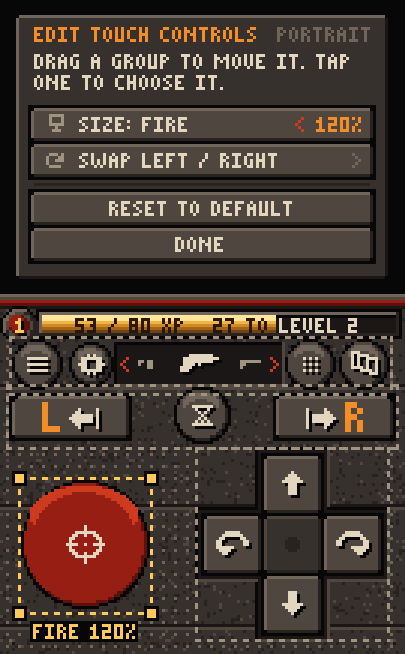
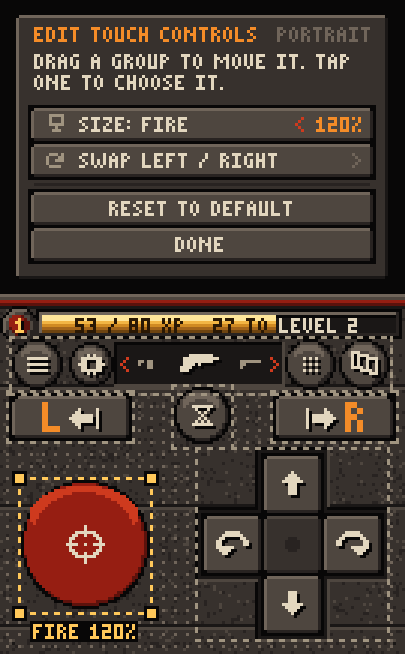
Stout Marine 2.3
Edit touch controls, portrait: L, the wait button and R are separate groups
that move on their own and can be 80 to 120 % of their size (smaller ones
leave room for a bigger cross). Swap left / right keeps L left and R right.
Layouts saved by 2.2 are carried over.

Windows (settings, extras, questions, stats, weapon picker, notes) are sized
to the screen so they can be read on small handheld screens; a window taller
than the screen scrolls (drag, or the d-pad cursor).

Claude-Session: https://claude.ai/code/session_01MybQg2o8bLLCBevEBFztR7

Changed region(s): [[0.0, 0.581, 0.4444, 0.7034], [0.563, 0.581, 1.0, 0.7034]]

diff --git a/src/android/modmarine/app/GameView.java b/src/android/modmarine/app/GameView.java
@@ -237,13 +237,13 @@ final class GameView extends View {
     /** Changes a group's size; a size with no room (or out of range) is not kept. Returns true if it changed. */
     private boolean resize(String id, int size, boolean tell) {
         boolean ok = false;
-        if (size >= Deck.SIZE_MIN && size <= Deck.SIZE_MAX) {
+        if (size >= Deck.SIZE_MIN && size <= Deck.sizeMax(id)) {
             int[] old = curEdits().get(id);
             int[] e = old != null ? old.clone() : new int[]{0, 0, 100};
             e[2] = size;
             ok = deck.placeNear(getWidth(), getHeight(), id, e, 8);
         }
-        if (!ok && tell) toast(size > Deck.SIZE_MAX ? "That's the biggest size." : size < Deck.SIZE_MIN ? "That's the smallest size." : "No room for that size here.");
+        if (!ok && tell) toast(size > Deck.sizeMax(id) ? "That's the biggest size." : size < Deck.SIZE_MIN ? "That's the smallest size." : "No room for that size here.");
         relayout(); saveEdits(); fillEditMenu();
         return ok;
     }
@@ -475,6 +475,7 @@ final class GameView extends View {
         if (deck.keypadOn) setKeypad(false);
         releaseTouches();
         menuController = controller;
+        menuFollow = true;
         if (m.cursor < 0) m.firstSelectable();
         menus.add(m);
         menuDirty = true; invalidate();
@@ -507,7 +508,7 @@ final class GameView extends View {
     /** The top window's rows changed (call after changing its items). */
     void menuChanged() { menuDirty = true; invalidate(); }
 
-    void menuMove(int d) { PixelMenu m = topMenu(); if (m == null) return; menuController = true; m.move(d); haptic(); menuChanged(); }
+    void menuMove(int d) { PixelMenu m = topMenu(); if (m == null) return; menuController = true; menuFollow = true; m.move(d); haptic(); menuChanged(); }
 
     /** A (or a tap): the row's action. */
     void menuActivate() {
@@ -543,43 +544,122 @@ final class GameView extends View {
         if (m.editor) {
             // the editor: over the game picture only, so the whole deck stays free to drag
             c.drawRect(gameRect, dimPaint); c.drawRect(gameRect, dimPaint);
-            s = Math.min(deck.artPx, Math.min(gameRect.width() * 0.98f / menuBmp.getWidth(), gameRect.height() * 0.96f / menuBmp.getHeight()));
-            if (s >= 2) s = (float) Math.floor(s);
+            s = fitScale(gameRect.width() * 0.98f / menuBmp.getWidth(), gameRect.height() * 0.96f / menuBmp.getHeight());
             w = menuBmp.getWidth() * s; h = menuBmp.getHeight() * s;
             x = gameRect.centerX() - w / 2; y = gameRect.centerY() - h / 2;
         } else {
             c.drawRect(0, 0, getWidth(), getHeight(), dimPaint);
-            s = Math.min(deck.artPx, Math.min(getWidth() * 0.96f / menuBmp.getWidth(), getHeight() * 0.96f / menuBmp.getHeight()));
-            if (s >= 2) s = (float) Math.floor(s);
-            w = menuBmp.getWidth() * s; h = menuBmp.getHeight() * s;
+            // sized to the screen: big enough to read on this screen (as wide as fits); a window taller than the
+            // screen shows part of its rows and scrolls (drag, or the controller cursor)
+            int bw = menuBmp.getWidth(), bh = menuBmp.getHeight();
+            s = fitScale(getWidth() * 0.96f / bw, readScale());
+            int avail = (int) (getHeight() * 0.96f / s);
+            menuBodyTop = m.bodyTop(); int end = m.bodyEnd(), foot = bh - end;
+            menuBodyVis = end - menuBodyTop; menuScrollMax = 0;
+            if (bh > avail) {
+                int vis = avail - menuBodyTop - foot;
+                if (vis >= 40) { menuBodyVis = vis; menuScrollMax = end - menuBodyTop - vis; }
+                else { s = fitScale(getWidth() * 0.96f / bw, getHeight() * 0.96f / bh); }   // no room to scroll: all of it, smaller
+            }
+            if (menuFollow && m.cursor >= 0 && m.cursor < m.items.size()) {   // keep the controller's row in view
+                int rt = m.rowTop(m.cursor) - menuBodyTop, rb = rt + m.rowH(m.items.get(m.cursor));
+                if (rt - 3 < m.scroll) m.scroll = rt - 3;
+                if (rb + 3 > m.scroll + menuBodyVis) m.scroll = rb + 3 - menuBodyVis;
+            }
+            m.scroll = Math.max(0, Math.min(menuScrollMax, m.scroll));
+            menuFullH = bh; menuVisH = bh - (end - menuBodyTop - menuBodyVis);
+            w = bw * s; h = menuVisH * s;
             float cy = deck.mode == Deck.MODE_TOUCH && getHeight() > getWidth() ? gameRect.centerY() : getHeight() / 2f;
             x = (getWidth() - w) / 2; y = Math.max(0, Math.min(getHeight() - h, cy - h / 2));
         }
         menuScale = s;
         menuDst.set(x, y, x + w, y + h);
-        c.drawBitmap(menuBmp, null, menuDst, pickerPaint);
+        if (m.editor || menuScrollMax <= 0 && menuVisH == menuFullH) {
+            if (m.editor) { menuScrollMax = 0; menuBodyTop = 0; menuBodyVis = menuBmp.getHeight(); menuFullH = menuVisH = menuBmp.getHeight(); m.scroll = 0; }
+            c.drawBitmap(menuBmp, null, menuDst, pickerPaint);
+        } else {
+            // three pieces: the title and message, the rows (scrolled), the hint at the bottom
+            int top = menuBodyTop, vis = menuBodyVis, foot = menuFullH - (top + vis + menuScrollMax);
+            tmpSrc.set(0, 0, menuBmp.getWidth(), top); tmpDst.set(x, y, x + w, y + top * s);
+            c.drawBitmap(menuBmp, tmpSrc, tmpDst, pickerPaint);
+            tmpSrc.set(0, top + m.scroll, menuBmp.getWidth(), top + m.scroll + vis); tmpDst.set(x, y + top * s, x + w, y + (top + vis) * s);
+            c.drawBitmap(menuBmp, tmpSrc, tmpDst, pickerPaint);
+            tmpSrc.set(0, menuFullH - foot, menuBmp.getWidth(), menuFullH); tmpDst.set(x, y + (top + vis) * s, x + w, y + h);
+            c.drawBitmap(menuBmp, tmpSrc, tmpDst, pickerPaint);
+            // scroll bar on the right edge
+            float bx = x + w - 3 * s, by0 = y + top * s, bh2 = vis * s;
+            float th = Math.max(6 * s, bh2 * vis / (float) (vis + menuScrollMax)), ty = by0 + (bh2 - th) * m.scroll / (float) menuScrollMax;
+            scrollPaint.setColor(0xFF282321); c.drawRect(bx, by0, bx + 2 * s, by0 + bh2, scrollPaint);
+            scrollPaint.setColor(0xFFF48C28); c.drawRect(bx, ty, bx + 2 * s, ty + th, scrollPaint);
+        }
         // pictures on RADIO rows (the Picture choice): a piece of the game as each choice shows it
         for (int i = 0; i < m.items.size(); i++) {
             PixelMenu.Item it = m.items.get(i);
             if (it.preview < 0 || it.preview >= previews.length || previews[it.preview] == null) continue;
             int[] r = m.previewRect(i);
-            tmpDst.set(x + r[0] * s, y + r[1] * s, x + (r[2] + 1) * s, y + (r[3] + 1) * s);
+            int dy = r[1] >= menuBodyTop ? -m.scroll : 0;
+            if (r[1] + dy < menuBodyTop || r[3] + dy >= menuBodyTop + menuBodyVis) continue;   // scrolled out of view
+            tmpDst.set(x + r[0] * s, y + (r[1] + dy) * s, x + (r[2] + 1) * s, y + (r[3] + 1 + dy) * s);
             pickerPaint.setFilterBitmap(it.preview != Prefs.PICTURE_SHARP);
             c.drawBitmap(previews[it.preview], null, tmpDst, pickerPaint);
             pickerPaint.setFilterBitmap(false);
         }
     }
 
+    /**
+     * Pixel size for a window: as big as fits (sized to the screen, not to the deck, so small handheld screens get
+     * readable windows). Whole pixels from 3x up keep the pixel art even; below that the exact fit is used, as
+     * every bit of size counts there.
+     */
+    private static float fitScale(float a, float b) {
+        float s = Math.min(a, b);
+        if (s >= 3) return (float) Math.floor(s);
+        return Math.max(1f, s);
+    }
+
+    // a scrolling window: what is shown (art pixels)
+    private int menuBodyTop, menuBodyVis, menuScrollMax, menuFullH, menuVisH;
+    /** The controller moved the cursor: keep its row in view. */
+    private boolean menuFollow = true;
+    private float menuDragY; private int menuDragScroll; private boolean menuDragging;
+    private final Rect tmpSrc = new Rect();
+    private final Paint scrollPaint = new Paint();
+
+    /** Window art y under screen y (the rows may be scrolled). */
+    private float menuArtY(PixelMenu m, float y, float s) {
+        float ya = (y - menuDst.top) / s;
+        if (ya < menuBodyTop) return ya;
+        if (ya < menuBodyTop + menuBodyVis) return ya + m.scroll;
+        return ya + (menuFullH - menuVisH);
+    }
+
+    /** A pixel scale that makes the 5-pixel font about 2.4 mm tall on this screen (8x on a typical phone). */
+    private float readScale() { return 3.0f * dp; }
+
     private boolean menuTouchEvent(int act, float x, float y) {
         PixelMenu m = topMenu();
         if (m == null) return false;
         float s = menuScale > 0 ? menuScale : deck.artPx;
-        int row = menuDst.contains(x, y) ? m.itemAt((x - menuDst.left) / s, (y - menuDst.top) / s) : -1;
+        int row = menuDst.contains(x, y) ? m.itemAt((x - menuDst.left) / s, menuArtY(m, y, s)) : -1;
+        if (act == MotionEvent.ACTION_MOVE) {
+            // drag to scroll a long window
+            if (menuScrollMax <= 0 || menuTouch == -3 || menuTouch == -2 && !menuDragging) return true;
+            if (!menuDragging && Math.abs(y - menuDragY) > 8 * dp) menuDragging = true;
+            if (menuDragging) {
+                menuFollow = false;
+                m.scroll = Math.max(0, Math.min(menuScrollMax, menuDragScroll - Math.round((y - menuDragY) / s)));
+                invalidate();
+            }
+            return true;
+        }
         if (act == MotionEvent.ACTION_DOWN || act == MotionEvent.ACTION_POINTER_DOWN) {
+            menuDragY = y; menuDragScroll = m.scroll; menuDragging = false; menuFollow = false;
             menuTouch = menuDst.contains(x, y) ? row : -3;
+            if (menuTouch == -2) menuTouch = -1;   // on the window, not on a row: may still drag
             if (row >= 0) { m.cursor = row; menuController = false; menuChanged(); }
         } else if (act == MotionEvent.ACTION_UP || act == MotionEvent.ACTION_POINTER_UP) {
             int arrow = row >= 0 ? m.arrowAt(row, (x - menuDst.left) / s) : 0;
+            if (menuDragging) { menuDragging = false; menuTouch = -2; return true; }   // it was a scroll, not a tap
             if (menuTouch >= 0 && row == menuTouch && arrow != 0) { m.cursor = row; menuSide(arrow); }   // tapped "<" or ">"
             else if (menuTouch >= 0 && row == menuTouch) menuActivate();
             else if (menuTouch == -3 && !menuDst.contains(x, y) && !m.editor) closeMenu();
@@ -629,8 +709,8 @@ final class GameView extends View {
             for (String l : m.message) { a.text(l, 1 + PixelMenu.W / 2 - PixelArt.textWidth(l, 1) / 2, y, PixelArt.BONE, 1); y += 7; }
             toastBmp = Bitmap.createBitmap(a.px, a.w, a.h, Bitmap.Config.ARGB_8888);
         }
-        float s = Math.min(deck.artPx, getWidth() * 0.9f / toastBmp.getWidth());
-        if (s >= 2) s = (float) Math.floor(s);
+        // a note: as big as the deck's pixels, or a size that suits the screen (small handheld screens)
+        float s = fitScale(getWidth() * 0.9f / toastBmp.getWidth(), readScale());
         float w = toastBmp.getWidth() * s, h = toastBmp.getHeight() * s, x = (getWidth() - w) / 2, y = gameRect.top + gameRect.height() * 0.08f;
         tmpDst.set(x, y, x + w, y + h);
         c.drawBitmap(toastBmp, null, tmpDst, pickerPaint);
@@ -805,9 +885,8 @@ final class GameView extends View {
             pickerDirty = false;
         }
         c.drawRect(gameRect, dimPaint);
-        // the window's pixel size: the deck's, or smaller if the window would not fit on the screen
-        float s = Math.min(deck.artPx, Math.min(getWidth() * 0.96f / pickerBmp.getWidth(), getHeight() * 0.96f / pickerBmp.getHeight()));
-        if (s >= 2) s = (float) Math.floor(s);
+        // the window's pixel size: as big as fits the screen
+        float s = fitScale(Math.min(getWidth() * 0.96f / pickerBmp.getWidth(), getHeight() * 0.96f / pickerBmp.getHeight()), readScale());
         pickerScale = s;
         float w = pickerBmp.getWidth() * s, h = pickerBmp.getHeight() * s;
         float x = Math.max(0, Math.min(getWidth() - w, gameRect.centerX() - w / 2)), y = Math.max(0, Math.min(getHeight() - h, gameRect.centerY() - h / 2));
@@ -908,7 +987,11 @@ final class GameView extends View {
             return true;
         }
         if (!menus.isEmpty() && topMenu().editor) { editorTouch(e); return true; }
-        if (!menus.isEmpty()) { if (act != MotionEvent.ACTION_MOVE) menuTouchEvent(act, e.getX(idx), e.getY(idx)); return true; }
+        if (!menus.isEmpty()) {
+            if (act == MotionEvent.ACTION_MOVE) { if (e.getPointerCount() > 0) menuTouchEvent(act, e.getX(0), e.getY(0)); }
+            else menuTouchEvent(act, e.getX(idx), e.getY(idx));
+            return true;
+        }
         if (pickerOn && act != MotionEvent.ACTION_MOVE) { pickerTouch(act, e.getPointerId(idx), e.getX(idx), e.getY(idx)); return true; }
         if (pickerOn) return true;
         switch (act) {

diff --git a/src/android/modmarine/app/Deck.java b/src/android/modmarine/app/Deck.java
@@ -259,16 +259,20 @@ final class Deck {
         switch (b.kind) {
             case CELL: return "cross";
             case FIRE: return "fire";
-            case SHOULDER: return portrait ? "steps" : (b.key == K_STRAFE_L ? "stepl" : "stepr");
+            case SHOULDER: return b.key == K_STRAFE_L ? "stepl" : "stepr";
             case SLOT: return portrait ? "top" : "topr";
             case DISC:
-                if (b.key == K_WAIT) return portrait ? "steps" : "wait";
+                if (b.key == K_WAIT) return "wait";
                 return portrait ? "top" : (b.key == K_MAP ? "topr" : "topl");   // by button, not by place (they can move)
         }
         return "other";
     }
 
     static final int SIZE_MIN = 80, SIZE_MAX = 140;
+
+    /** Groups that can change size, and how big they may get (L, R and wait: up to 120 %). */
+    static boolean sizable(String id) { return id.equals("cross") || id.equals("fire") || id.equals("stepl") || id.equals("stepr") || id.equals("wait"); }
+    static int sizeMax(String id) { return id.equals("cross") || id.equals("fire") ? SIZE_MAX : 120; }
 
     /** Saved form of a layout's changes: "id:dx:dy:size;..." */
     static String saveEdits(HashMap<String, int[]> ed) {
@@ -293,6 +297,8 @@ final class Deck {
     private void applyEdits(boolean portrait) {
         editable = true; portraitLayout = portrait;
         HashMap<String, int[]> ed = edits(portrait);
+        int[] steps = ed.remove("steps");   // 2.2 moved L, wait and R together in portrait: now three groups
+        if (steps != null) for (String id : new String[]{"stepl", "wait", "stepr"}) if (!ed.containsKey(id)) ed.put(id, new int[]{steps[0], steps[1], 100});
         // where groups may go: the panels (below the XP bar), and always where they are by default
         regions.clear(); obstacles.clear();
         int xpBottom = xpX0 >= 0 ? xpY0 + xpInner + 3 + (xpTextLines > 0 && xpTextRight ? 12 : 0) : -1;
@@ -310,11 +316,10 @@ final class Deck {
                 if (cx >= r[0] && cx <= r[2] && cy >= r[1] && cy <= r[3]) { r[0] = Math.min(r[0], g.x0); r[1] = Math.min(r[1], g.y0); r[2] = Math.max(r[2], g.x1); r[3] = Math.max(r[3], g.y1); }
         }
         // move / resize
-        int cellsAt = -1;
         for (String id : ed.keySet()) {
             if (disabled.contains(id)) continue;
             int[] e = ed.get(id);
-            int dx = e[0], dy = e[1], size = Math.max(SIZE_MIN, Math.min(SIZE_MAX, e[2]));
+            int dx = e[0], dy = e[1], size = sizable(id) ? Math.max(SIZE_MIN, Math.min(sizeMax(id), e[2])) : 100;
             if (id.equals("cross")) {
                 int cell = Math.max(10, Math.min(28, Math.round(crossCell * size / 100f))), cx = crossCx + dx, cy = crossCy + dy;
                 for (int i = buttons.size() - 1; i >= 0; i--) if (buttons.get(i).kind == CELL) buttons.remove(i);
@@ -327,6 +332,12 @@ final class Deck {
                 if (b.kind == DISC || b.kind == FIRE) {
                     b.cx += dx; b.cy += dy;
                     if (b.kind == FIRE) b.r = Math.max(10, Math.min(26, Math.round(17 * size / 100f)));
+                    else if (b.key == K_WAIT && size != 100) b.r = Math.max(5, Math.min(14, Math.round(b.r * size / 100f)));
+                } else if (b.kind == SHOULDER && size != 100) {
+                    // L / R: taller or shorter; narrower when smaller (they are wide already)
+                    int cx = (b.x0 + b.x1) / 2 + dx, cy = (b.y0 + b.y1) / 2 + dy;
+                    int w = Math.round((b.x1 - b.x0 + 1) * Math.min(1f, size / 100f)), h = Math.max(8, Math.round((b.y1 - b.y0 + 1) * size / 100f));
+                    b.x0 = cx - w / 2; b.x1 = b.x0 + w - 1; b.y0 = cy - h / 2; b.y1 = b.y0 + h - 1;
                 } else { b.x0 += dx; b.x1 += dx; b.y0 += dy; b.y1 += dy; slot |= b.kind == SLOT; }
             }
             if (slot) { slotCx += dx; slotCy += dy; }
@@ -343,7 +354,7 @@ final class Deck {
             String id = groupOf(b, portrait);
             Group g = null;
             for (Group q : groups) if (q.id.equals(id)) g = q;
-            if (g == null) { g = new Group(); g.id = id; g.sizable = id.equals("cross") || id.equals("fire"); g.edited = ed.containsKey(id) && !disabled.contains(id); groups.add(g); }
+            if (g == null) { g = new Group(); g.id = id; g.sizable = sizable(id); g.edited = ed.containsKey(id) && !disabled.contains(id); groups.add(g); }
             switch (b.kind) {
                 case CELL: if (!wellDone) { g.add(clusterWell[0] + 2, clusterWell[1] + 2, clusterWell[2] - 2, clusterWell[3] - 2); wellDone = true; } break;
                 case DISC: case FIRE: g.add(b.cx - b.r, b.cy - b.r, b.cx + b.r, b.cy + b.r + 1); break;
@@ -409,9 +420,13 @@ final class Deck {
             public int compare(Group a, Group b) { return (b.x1 - b.x0) * (b.y1 - b.y0) - (a.x1 - a.x0) * (a.y1 - a.y0); }
         });
         HashMap<String, int[]> want = new HashMap<String, int[]>();
+        Group gl = group("stepl"), gr = group("stepr");
         for (Group g : order) {
             int[] e = ed.containsKey(g.id) ? ed.get(g.id).clone() : new int[]{0, 0, 100};
-            e[0] += axis2 - (g.x0 + g.x1);   // new centre = 2 axis - centre
+            // L and R swap places with each other's mirror image, so L stays on the left and R on the right
+            Group from = gl != null && gr != null ? (g == gl ? gr : g == gr ? gl : g) : g;
+            e[0] += (2 * axis2 - (from.x0 + from.x1) - (g.x0 + g.x1)) / 2;   // new centre = 2 axis - centre (of "from")
+            e[1] += (from.y0 + from.y1) / 2 - (g.y0 + g.y1) / 2;
             want.put(g.id, e);
         }
         int stuck = 0;

diff --git a/src/android/modmarine/app/Help.java b/src/android/modmarine/app/Help.java
@@ -57,7 +57,7 @@ final class Help {
         "<h4>Settings (the gear button)</h4>"
         + "Tap a row to use it. Rows with a value show <b>&lt; value &gt;</b>: tap the left arrow for the previous choice and "
         + "the right arrow for the next (left / right on a controller). "
-        + "Tap outside the window, or press <b>B</b>, to close.<br>"
+        + "Tap outside the window, or press <b>B</b>, to close. On smaller screens the list scrolls: drag it, or move with the d-pad.<br>"
         + "<b>Save now</b> &mdash; saves your game in one tap. It uses the game's own menu and its <b>Save Game</b>, "
         + "exactly as if you had done it yourself, so it only works while you are walking around (not in a fight, "
         + "a conversation or a menu). A note at the top says when it's saved.<br>"
@@ -112,8 +112,9 @@ final class Help {
         + "and the d-pad and stick always move, so you can't lock yourself out. <b>Reset to default</b> puts them back.",
 
         "<h4>Move the touch controls</h4>"
-        + "Settings, <b>Edit touch controls</b>: drag a group of buttons (the cross, the fire button, the L / R buttons, "
-        + "the top row) to where your thumbs like them. Tap the cross or the fire button, then change its size (80 to 140%): "
+        + "Settings, <b>Edit touch controls</b>: drag a group of buttons (the cross, the fire button, L, R, the hourglass, "
+        + "the top row) to where your thumbs like them. Tap the cross or the fire button, then change its size (80 to 140%; "
+        + "L, R and the hourglass 80 to 120%, and smaller ones leave room for a bigger cross): "
         + "tap <b>&lt;</b> for smaller or <b>&gt;</b> for bigger, or tap the size row itself to go up a step at a time to the "
         + "biggest size that fits, then back down. "
         + "<b>Swap left / right</b> mirrors everything, for left-handed play. Portrait and landscape are kept separately. "

diff --git a/src/android/modmarine/app/About.java b/src/android/modmarine/app/About.java
@@ -28,16 +28,15 @@ final class About {
 
     /** Shown once after an update (keep in step with CHANGES.md). */
     static final String WHATS_NEW =
-          "\u2022 Fixed: the cross (and the fire button) can be made smaller again. In Edit touch controls, tap < for "
-        + "smaller and > for bigger, or tap the size to go up and back down. Rows with a value in the settings have "
-        + "both arrows too.\n\n"
-        + "\u2022 From 2.2: edit touch controls (move, resize, swap left / right) and controller buttons.";
+          "\u2022 Edit touch controls, portrait: L, the hourglass and R now move on their own and can be made 80 to "
+        + "120 % of their size. Smaller ones leave room for a bigger cross.\n\n"
+        + "\u2022 Settings and the other windows are sized to your screen, so they can be read on small handheld "
+        + "screens too. A long window scrolls: drag it, or move with the d-pad.";
 
     /** The same, short enough for the pixel window (capitals only, no bullets). */
     static final String WHATS_NEW_SHORT =
-          "- FIXED: THE CROSS CAN BE MADE SMALLER AGAIN. TAP < FOR SMALLER, > FOR BIGGER.\n"
-        + "- SETTINGS ROWS WITH A VALUE HAVE BOTH ARROWS.\n\n"
-        + "FROM 2.2: EDIT TOUCH CONTROLS AND CONTROLLER BUTTONS (IN THE SETTINGS).";
+          "- EDIT TOUCH CONTROLS: L, WAIT AND R MOVE ON THEIR OWN AND CAN BE RESIZED.\n"
+        + "- WINDOWS ARE SIZED TO YOUR SCREEN. A LONG WINDOW SCROLLS.";
 
     static void showWhatsNew(Activity a) {
         new AlertDialog.Builder(a, android.R.style.Theme_DeviceDefault_Dialog_Alert)

diff --git a/src/android/modmarine/app/PixelMenu.java b/src/android/modmarine/app/PixelMenu.java
@@ -102,6 +102,12 @@ final class PixelMenu {
         return x < mid ? -1 : 1;
     }
 
+    /** How far the rows are scrolled (art pixels), when the window is taller than the screen. */
+    int scroll;
+    /** Where the rows start (art pixels, room for a gap line above the first), and where they end. */
+    int bodyTop() { return itemsTop() - 4; }
+    int bodyEnd() { return items.isEmpty() ? itemsTop() : rowTop(items.size() - 1) + rowH(items.get(items.size() - 1)) + 2; }
+
     void move(int d) {
         if (items.isEmpty()) return;
         int n = items.size(), c = cursor < 0 ? (d > 0 ? -1 : n) : cursor;

diff --git a/CHANGES.md b/CHANGES.md
@@ -1,5 +1,15 @@
 # Changes
 
+## 2.3
+- Edit touch controls, portrait: L, the wait button (hourglass) and R are now separate groups (as in landscape),
+  so each can go where you like, and they can be made 80 to 120 % of their size. Making them smaller frees room
+  for a bigger cross. A layout saved by 2.2 keeps them where you had put them.
+- Windows (settings, the extras window, questions, stats, the weapon picker, notes) are sized to the screen
+  you are using: big enough to read on it (the letters about 2.4 mm tall), instead of the size of the control
+  deck's pixels. On small handheld screens such as the RG Rotate they were too small to read.
+- A window taller than the screen shows part of its rows and scrolls: drag it with a finger, or move with the
+  d-pad (the list follows the cursor). A bar on the right shows where you are.
+
 ## 2.2.1
 - Fixed: in Edit touch controls the cross could not be made smaller. Tapping the size only went up, and in
   portrait the cross has no room above 110 %, so it never came back down. Now the size shows "< 110% >": tap

diff --git a/README.md b/README.md
@@ -63,7 +63,7 @@ and a window on first start lists them and shows where to change them.
 ### Your own layout and buttons
 
 **Edit touch controls** (settings): drag the cross, the fire button and the other groups of buttons where your
-thumbs like them, make the cross or fire button bigger or smaller (tap < or >), or **swap left / right** for left-handed
+thumbs like them, make the cross, the fire button, L, R or the hourglass bigger or smaller (tap < or >), or **swap left / right** for left-handed
 play. Portrait and landscape are kept separately, and **Reset to default** puts everything back.
 
 **Controller buttons** (settings): choose an action, then press the button you want for it (if another action
